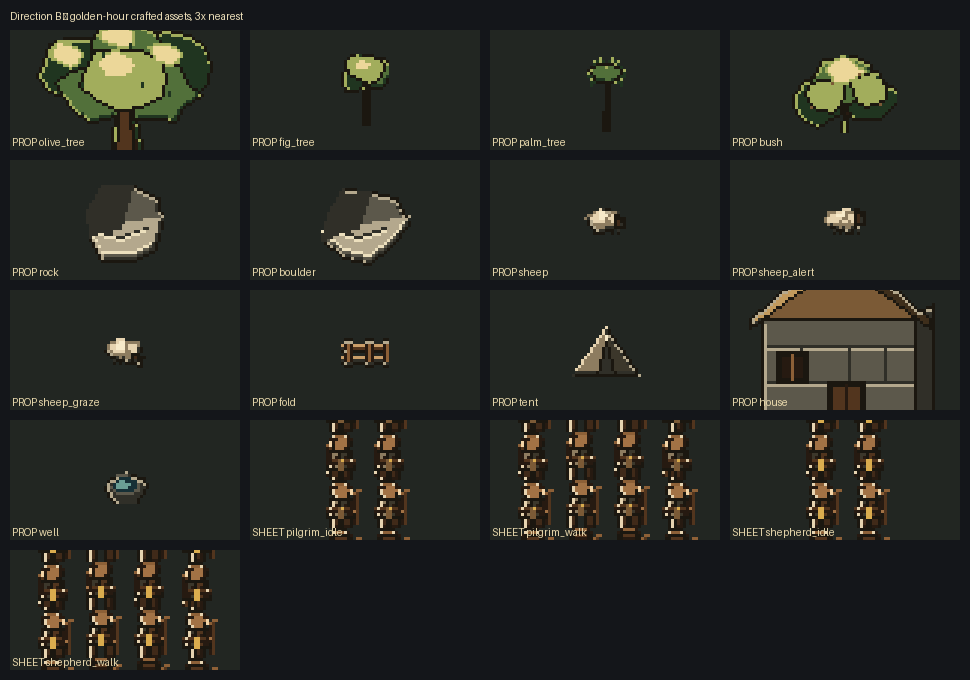
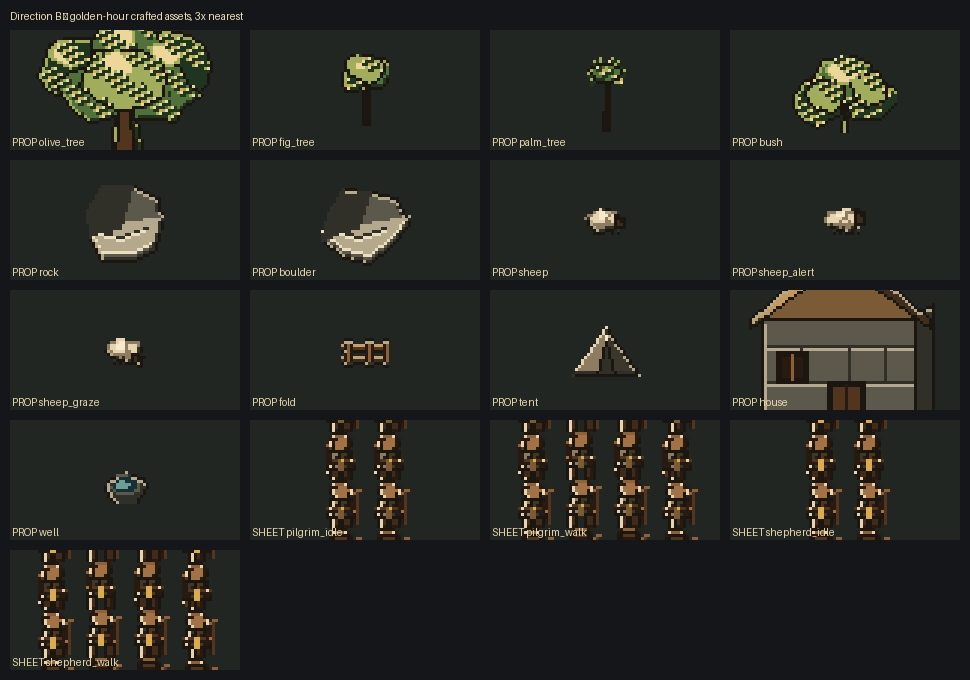
ART: clumped canopy texture and one-frame-per-step B transport
Run 42813312029 proved the separate publish-b-frames job works, but one runner
step publishing BOTH 48-colour frames silently kept only its first ten
::notice:: annotations, so frame 17 lost one chunk. Publish frame 16 and frame
17 in separate steps, each with its own budget. decode_frames.py still scans
every job and reassembles by name/index.

The crafted B trees were still three flat green blobs. Add deterministic
connected 2x2 leaf patches INSIDE the existing foliage alpha mask: warm
upper-left tips, cool lower-right shade and a few gold flecks. Dimensions,
frame counts, footprints and collision are unchanged; the stdlib gate's
palette and hash checks are regenerated. No default asset replacement, PR,
merge, release or parity claim.

diff --git a/tools/artgen/craft_cinematic.py b/tools/artgen/craft_cinematic.py
@@ -127,15 +127,56 @@ def _directional_rim(path, light: str, dark: str) -> None:
     out.save(path)
 
 
+def _detail_foliage(path, seed: int) -> None:
+    """Add clumped leaf texture INSIDE the existing canopy silhouette.
+
+    The C-era tree sprites are three flat green blobs. Reference B has many
+    small leaves, but adding a painted bitmap or changing the sprite rectangle
+    would break the 16px-grid / footprint contract. This recolours connected
+    2x2 patches of EXISTING foliage pixels with a warm upper-left tip and a
+    cool lower-right shade; the alpha mask, dimensions and frame count stay
+    byte-for-byte equivalent in shape.
+    """
+    im = Image.open(path).convert("RGBA")
+    src = im.copy()
+    a, b = src.load(), im.load()
+    foliage = {_rgb(B["OLIVE_D"]), _rgb(B["OLIVE_M"]),
+               _rgb(B["OLIVE_L"]), _rgb(B["OLIVE_H"])}
+    lit, mid, dim, gold = (_rgb(B["OLIVE_H"]), _rgb(B["OLIVE_L"]),
+                           _rgb(B["OLIVE_D"]), _rgb(B["GOLD"]))
+    w, h = im.size
+    for y in range(1, h - 1):
+        for x in range(1, w - 1):
+            if a[x, y][3] < 128 or a[x, y][:3] not in foliage:
+                continue
+            hv = (x * 17 + y * 31 + seed * 7) % 97
+            if hv >= 9:
+                continue
+            for dy in (0, 1):
+                for dx in (0, 1):
+                    nx, ny = x + dx, y + dy
+                    if a[nx, ny][3] < 128 or a[nx, ny][:3] not in foliage:
+                        continue
+                    b[nx, ny] = (*(lit if dx == 0 and dy == 0 else dim), 255)
+            if a[x - 1, y][3] >= 128 and a[x - 1, y][:3] in foliage:
+                b[x - 1, y] = (*mid, 255)
+            if hv < 2 and a[x, y - 1][3] >= 128 \
+                    and a[x, y - 1][:3] in foliage:
+                b[x, y - 1] = (*gold, 255)
+    im.save(path)
+
+
 def embellish_assets() -> None:
-    """Add B's single-light rim to the crafted props and actor sheets."""
+    """Add B's single-light rim and clumped leaf texture to the crafted art."""
     foliage = {"olive_tree", "fig_tree", "palm_tree", "bush"}
-    for key in ["olive_tree", "fig_tree", "palm_tree", "bush", "rock",
-                "boulder", "sheep", "sheep_alert", "sheep_graze", "fold",
-                "tent", "house", "well"]:
+    for i, key in enumerate(["olive_tree", "fig_tree", "palm_tree", "bush",
+                             "rock", "boulder", "sheep", "sheep_alert",
+                             "sheep_graze", "fold", "tent", "house", "well"]):
         light = B["OLIVE_L"] if key in foliage else B["STONE_L"]
         dark = B["OLIVE_D"] if key in foliage else B["STONE_D"]
         _directional_rim(CP.PROPS / (key + ".png"), light, dark)
+        if key in foliage:
+            _detail_foliage(CP.PROPS / (key + ".png"), i + 1)
     for name in ["pilgrim_idle", "pilgrim_walk", "shepherd_idle", "shepherd_walk"]:
         _directional_rim(CC.OUT / (name + ".png"), B["LINEN_L"], B["WOOD_D"])
 
